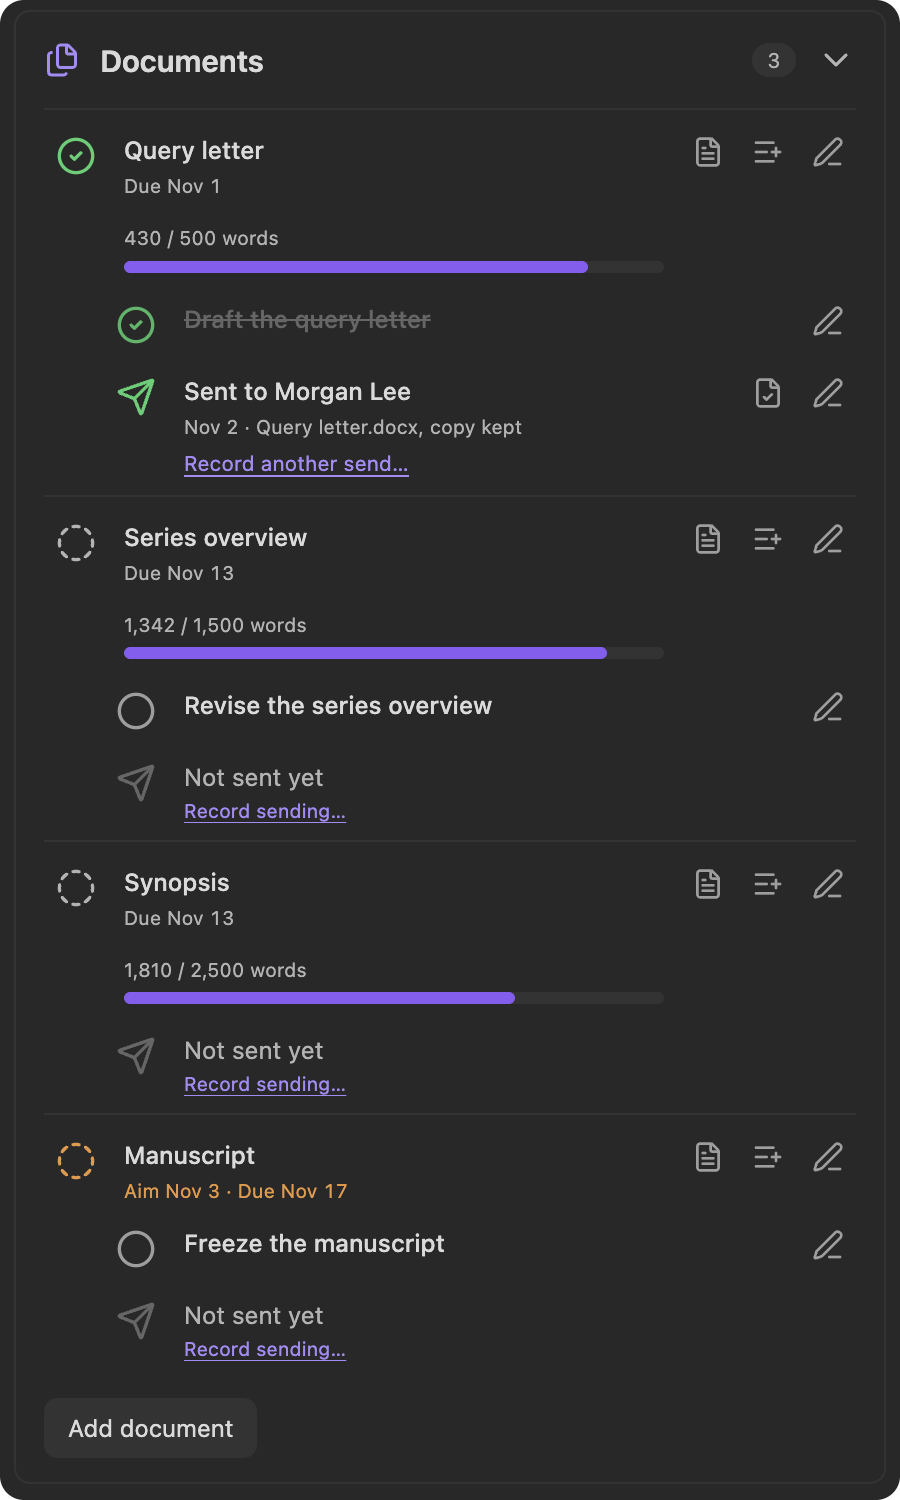
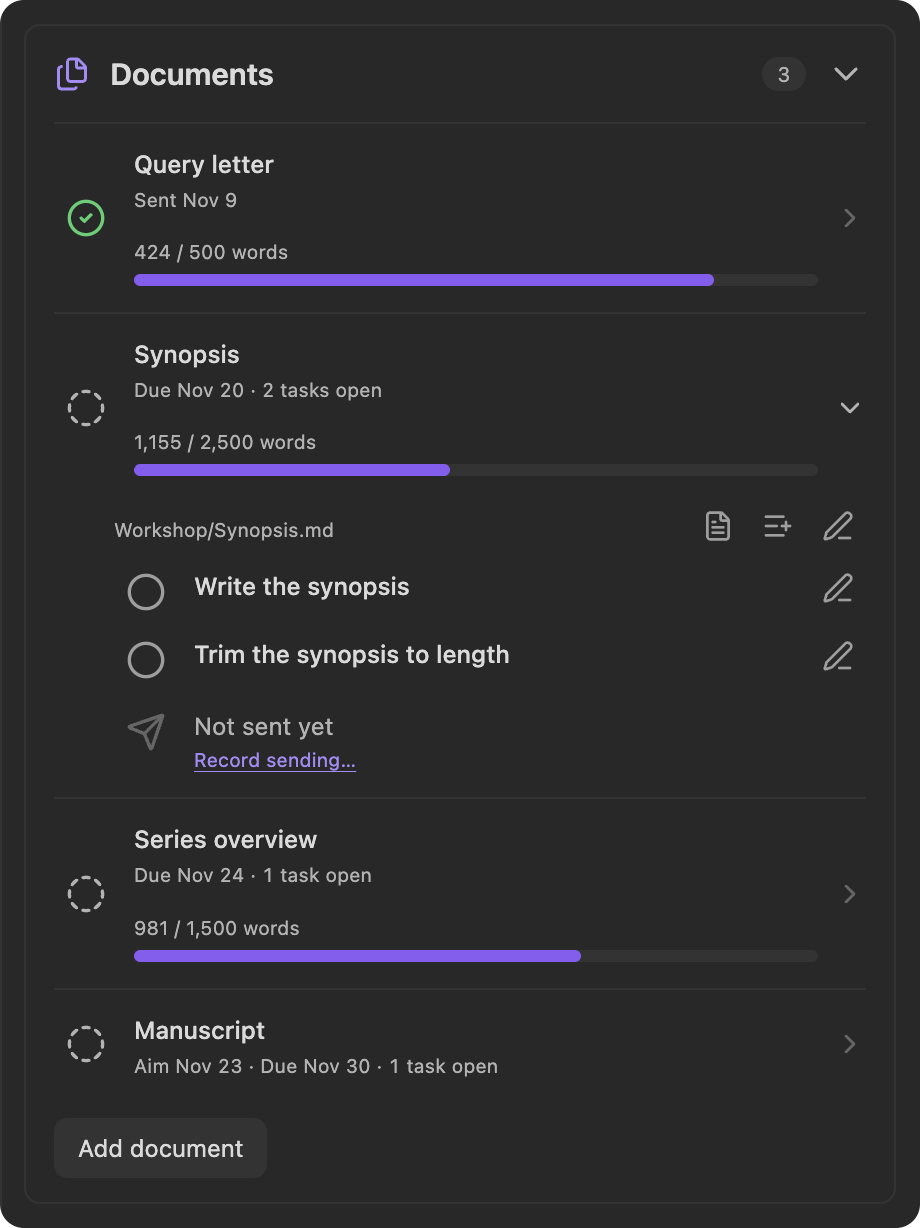
Wiki: retake the planner and engagement screenshots
The engagement's three tabs, its one-line documents, the planner's page
of squares and Fill my days had no current picture. Seven images are
retaken in Obsidian from a made-up vault, with sessions that Fill my
days itself planned, and two are new: the Fill my days preview and the
goal cards, which no longer fit in the planner image. Descriptions on
the four pages that show them now say what is in each.

diff --git a/wiki/Editor-Engagement.md b/wiki/Editor-Engagement.md
@@ -1,6 +1,6 @@
 Keep an editor’s agreed dates, the documents you send, your tasks, shared milestones, and activity history together for the active book. Run **Open editor engagement**, or choose **Editor engagement** from the panel’s mode selector. The view has three tabs: **Overview**, **Schedule**, and **History**. **Open engagement in workspace**, in the panel's **⋯** menu, opens the same plan in a full workspace tab.
 
-<p align="center"><img src="images/panel-editor-engagement.png" alt="Editor engagement overview for Morgan Lee: the start date six days away, the engagement bar with your preparation, the editor's stretch and your questions, a cushion bar with six days left, and Next up with the next session and the next date due" width="460"></p>
+<p align="center"><img src="images/panel-editor-engagement.png" alt="Editor engagement overview for Morgan Lee: the Overview, Schedule and History tabs, the start date 16 days away, the engagement bar with your preparation, the editor's stretch and your questions, the day to aim for, and Next up with the next session and the next date due" width="460"></p>
 
 ## Create an engagement
 
@@ -45,7 +45,7 @@ A word limit caps the working document, a query letter at 500 words, say. Wherev
 
 A document's tasks sit inside it, under its title. Add one with the list icon in the open document, or choose the document in a task's **Document** field. Tasks with no document are listed under **Other tasks**. Click a task's circle and choose **Done** or **Open**; opening the menu changes nothing until you choose, and finished tasks are struck through.
 
-<p align="center"><img src="images/engagement-documents.png" alt="Documents section with four cards: a query letter sent to Morgan Lee as a Word file with a copy kept, and three documents not sent yet, each with its due date, word count, tasks and Record sending link" width="450"></p>
+<p align="center"><img src="images/engagement-documents.png" alt="Documents section with four lines: a query letter with a green check and the day it was sent, and three not sent yet, each with its due date, open tasks and word count. The synopsis is open, showing its working note, two tasks, Not sent yet and Record sending" width="460"></p>
 
 ### Record sending a document
 
@@ -69,7 +69,7 @@ Prepare and exchange files through your editor’s collaboration service, email,
 
 Open **Schedule** to see the book's days as squares, a week to a row, as the [Author Planner](Author-Planner) draws them for all your books: a square fills with the time planned that day against the time you set aside, turns red past it, and is tinted while the manuscript is with your editor; a red ring marks the agreed start. Hover a square for the day's sessions, and click it to open that day in **Days**. **Fill my days**, under the squares, plans this engagement's tasks together with your writing goals; see [Author Planner](Author-Planner#fill-my-days). Below them are the ordered **Queue**, daily **Days** view, deadline, weekday capacity, and how many days early to finish work due to your editor. Personal tasks join imported review batches, Editorialism directives, and pending edits. Review a schedule preview before applying it, then resolve feedback in its own workflow. Marking a scheduled session **Done** records the planning session; finishing the feedback itself is separate.
 
-<p align="center"><img src="images/panel-revision-plan.png" alt="Editor engagement schedule with book progress and a capacity forecast" width="460"></p>
+<p align="center"><img src="images/panel-revision-plan.png" alt="Schedule tab of an editor engagement: Queue and Days, then Your days, the book's days as squares with the days due ringed, 11 sessions planned and the Fill my days button" width="460"></p>
 
 See [Revision Plan](Revision-Plan) for estimates, automatic planning, delivery scheduling, prerequisites, and preserved dates.
 
@@ -77,7 +77,7 @@ See [Revision Plan](Revision-Plan) for estimates, automatic planning, delivery s
 
 Choose **Record activity** to record something sent, something received, or a note. A date and description are required; the document, the file, and file names are optional. Sends you record in a document's details appear here too, with the document's name. Record events that have happened; put future work in the schedule. Records can be corrected or deleted later.
 
-<p align="center"><img src="images/engagement-history.png" alt="Activity records with a sent record and a note, each with its kind icon and edit, reference, and archive actions" width="460"></p>
+<p align="center"><img src="images/engagement-history.png" alt="Activity records with a sent record and a note, each with its kind icon and an edit action, and Record activity below" width="460"></p>
 
 A kept copy holds one file, up to 64 MB, under `Editorialist/Engagement history/`, and stays independent of later changes to the original. Live references follow file renames; file names and kept copies preserve the record. Deleting a record keeps its copy.
 

diff --git a/wiki/Author-Planner.md b/wiki/Author-Planner.md
@@ -1,6 +1,6 @@
 Give your own writing goals a target date and room in your working week. Run **Open author planner**, or choose **Author planner** from the panel’s mode selector. This plan spans the vault and stays separate from each book’s [Editor Engagement](Editor-Engagement).
 
-<p align="center"><img src="images/panel-author-planner.png" alt="Author planner with a word-count goal showing words written, today's words and the daily pace, above a goal that starts tomorrow with a hard deadline" width="460"></p>
+<p align="center"><img src="images/panel-author-planner.png" alt="Author planner: Ahead of you, with a bar for each goal and for the editor engagement against today, and Your days, nine weeks of squares filled where sessions are planned, with the Fill my days button below" width="460"></p>
 
 ## Add a writing goal
 
@@ -12,6 +12,8 @@ Give your own writing goals a target date and room in your working week. Run **O
 6. Save. **Edit goal** lets you change these details later.
 
 Each goal card counts down to its date. Before a goal’s start date, it shows the days until you start and the length of the window; after that, the days left, plus the weeks when at least two weeks remain. A goal with a start date also shows a bar of how much of the time from start to deadline has passed. The bar measures time, not how much of the writing is done. It turns amber in the last 14 days and red when the goal is due today or past due, and a hard deadline’s date is shown in red.
+
+<p align="center"><img src="images/author-goals.png" alt="Two goal cards: a word-count goal with words written, today's words, the daily pace and a hard deadline in red, above a goal that starts in two days" width="460"></p>
 
 A document link opens the working file. Linking or editing it never completes the goal. **Mark complete** records your decision; **Reopen goal** brings it back. **Remove goal** removes that goal and its planned sessions while preserving the document.
 
@@ -33,6 +35,8 @@ The count is the folder’s total, so cutting words lowers it, and moving a note
 2. **What's due.** Each engagement task and each goal that has no sessions yet, with its date. Say how many hours each will take. Work you leave without a time stays out of the plan for now. The hours you give a goal or a task are kept with it, so you are not asked twice. If sessions are already on your calendar, **Move the sessions already on my calendar** places them again so everything fits together; a session set to **Keep this date** stays where it is. The box is ticked for you when a day already holds more than its hours.
 3. **The balance.** Shown when you have both goals and work due to an editor. Choose which comes first when a day has no room for both: what is due to your editor, your writing goals, or **Some of each, every day**, which keeps a set number of minutes for your goals on each day they need them and gives your editor's work the rest. Your choice is remembered for next time.
 4. **Preview.** Your days as squares, as the plan would leave them. If everything fits it says so, with the number of sessions and the last day. If not, it says how many hours find no day and for which work; go **Back** to give your days more time, give the work less, or change the balance. Work due to your editor aims to be ready your cushion of days early, and the preview lists what lands later than that. **Use this plan** saves the sessions to your goals and to each book's engagement.
+
+<p align="center"><img src="images/fill-my-days.png" alt="Fill my days at its Preview step: Everything fits, 26 sessions over 13 days, with the days drawn as squares, full on the days now planned, and Back and Use this plan below" width="520"></p>
 
 Goals are planned to their own dates; the cushion kept before an editor's deadline does not apply to them. A book's feedback work, its review batches, Editorialism directives and pending edits, is planned from that book's own schedule; Fill my days leaves those sessions where they are and plans around them.
 

diff --git a/wiki/Revision-Plan.md b/wiki/Revision-Plan.md
@@ -2,7 +2,7 @@ The **Schedule** section of [Editor Engagement](Editor-Engagement) brings person
 
 This page retains the scheduling reference and its original URL for existing links. For vault-wide personal writing goals, use [Author Planner](Author-Planner).
 
-<p align="center"><img src="images/panel-revision-plan.png" alt="Editor engagement schedule with book progress and a capacity forecast" width="460"></p>
+<p align="center"><img src="images/panel-revision-plan.png" alt="Schedule tab of an editor engagement: Queue and Days, then Your days, the book's days as squares with the days due ringed, 11 sessions planned and the Fill my days button" width="460"></p>
 
 ## Progress across the book
 
@@ -35,7 +35,7 @@ A date your editor is waiting on, the engagement start or a return deadline, get
 
 Each card in the queue shows its kind, title, context, and its date and estimate (dashed when not yet set). Click the circle beside its kind and choose **Done** to finish the session, or **Open** to reopen it; opening the menu changes nothing until you choose. At the right, **Schedule & options** opens the card's scheduling controls; clicking the date or estimate opens them too. Batches, Editorialism directives, and pending edits also get **Open source**, which takes you to the underlying feedback. An engagement task that works on a document gets **Open document**, which opens that document.
 
-<p align="center"><img src="images/plan-queue-cards.png" alt="Work queue with three engagement-task cards: the status circle beside the kind and session, title and context, the deadline line, such as Aim Nov 13 · Due Nov 17, date and estimate chips, and Open document and Schedule &amp; options icons at the right" width="460"></p>
+<p align="center"><img src="images/plan-queue-cards.png" alt="Work queue with three engagement-task cards: the status circle beside the kind and session, title and context, the deadline line, such as Due Nov 20, date and estimate chips, and Open document and Schedule &amp; options icons at the right" width="460"></p>
 
 Marking a session **Done** completes only the planning session: it does not accept a batch suggestion, check off an Editorialism, or remove a Pending edit. Resolve those in their source workflow. Source completion can also make its planned work complete. A batch is complete once every suggestion in it is decided; its memos ride along. A batch holding only memos has nothing to decide, so it stays open until you finish its session.
 

diff --git a/docs/engineering/WIKI-SCREENSHOTS.md b/docs/engineering/WIKI-SCREENSHOTS.md
@@ -304,3 +304,40 @@ All 24 wiki images were checked against the 3.4.1 code for docs.radialtimeline.c
 
 `ui-toolbar-closeup-rounded.png` stays in the wiki. The docs site shows a live HTML version of the toolbar in its place.
 
+## November 14, 2026 — planner and engagement refresh
+
+Captured from main at `79a323e` plus the Today spacing fix that follows it, in
+an isolated desktop Obsidian 1.15.0 (its own profile, started with a debugging
+port and driven and captured through it, so no pointer is in any image). Dark
+theme, 2x device scale, 460 CSS-pixel right sidebar. The vault was new and
+made up: six scenes in `Book/`, Workshop documents with word limits, seven
+chapters in `Drafts/Book 2/`, Morgan Lee's developmental edit starting Nov 30,
+and the goals "Draft Book 2" (50,000 words in November) and "Outline Book 3".
+Hours were two a day, Monday to Friday. No Author-vault content was used.
+
+The sessions in these images were made by the plugin: Fill my days was run in
+the vault with 11 hours of engagement tasks and 15 of goals, editor's work
+first, and its plan applied (26 sessions over 13 days).
+
+- `fill-my-days.png` (new) — the Preview step, the whole window (560 CSS px
+  wide, shown at 520), rounded at 44 to match its corners. It replaces the
+  retired `author-schedule-preview.png`.
+- `panel-author-planner.png` — the one-page planner through Your days (700
+  CSS px); the goal cards moved to their own image.
+- `author-goals.png` (new) — Your goals with both cards (514 CSS px).
+- `panel-editor-engagement.png` — the three tabs, through Next up. The aim day
+  is still ahead, so there is no cushion bar.
+- `engagement-documents.png` — the one-line documents, with Synopsis open. Now
+  the full 460 CSS-pixel panel width.
+- `engagement-history.png` — the History tab's Activity records.
+- `panel-revision-plan.png` — the Schedule tab through Your days and the Fill
+  my days button; progress and the summary are below.
+- `plan-queue-cards.png` — three cards with single-figure estimates.
+- `panel-today.png` — through the Now card. For this one image, Saturday was
+  given two hours and the first two sessions were moved to today, so the Now
+  card and the week strip have something to show.
+
+Kept: `delivery-schedule-preview.png` (a delivery's schedule preview, which
+needs imported feedback; its layout is unchanged) and every review, import and
+settings image.
+

diff --git a/wiki/Home.md b/wiki/Home.md
@@ -41,7 +41,7 @@ Line edits supports a full set of scene-level editorial moves:
 
 Use the view name beside the Ed logo to switch modes. Book-scoped modes use the active-book header and **Import**. Author planner shows **Across your vault** and **Add goal**. Today covers all your books and your writing goals together.
 
-<p align="center"><img src="images/panel-today.png" alt="Today view of your books and goals: the session to do now inside its cushion with six days left, with Start, Done and Open engagement, the next session today with its due date, and a word-count goal showing words written today and the daily pace to finish on time" width="460"></p>
+<p align="center"><img src="images/panel-today.png" alt="Today view of your books and goals: two sessions today, the week as squares with today filled, your editor engagement's bar with the days to its start, and the session to do now with Start, Done and Open engagement" width="460"></p>
 
 | Mode | Use it for |
 |---|---|
